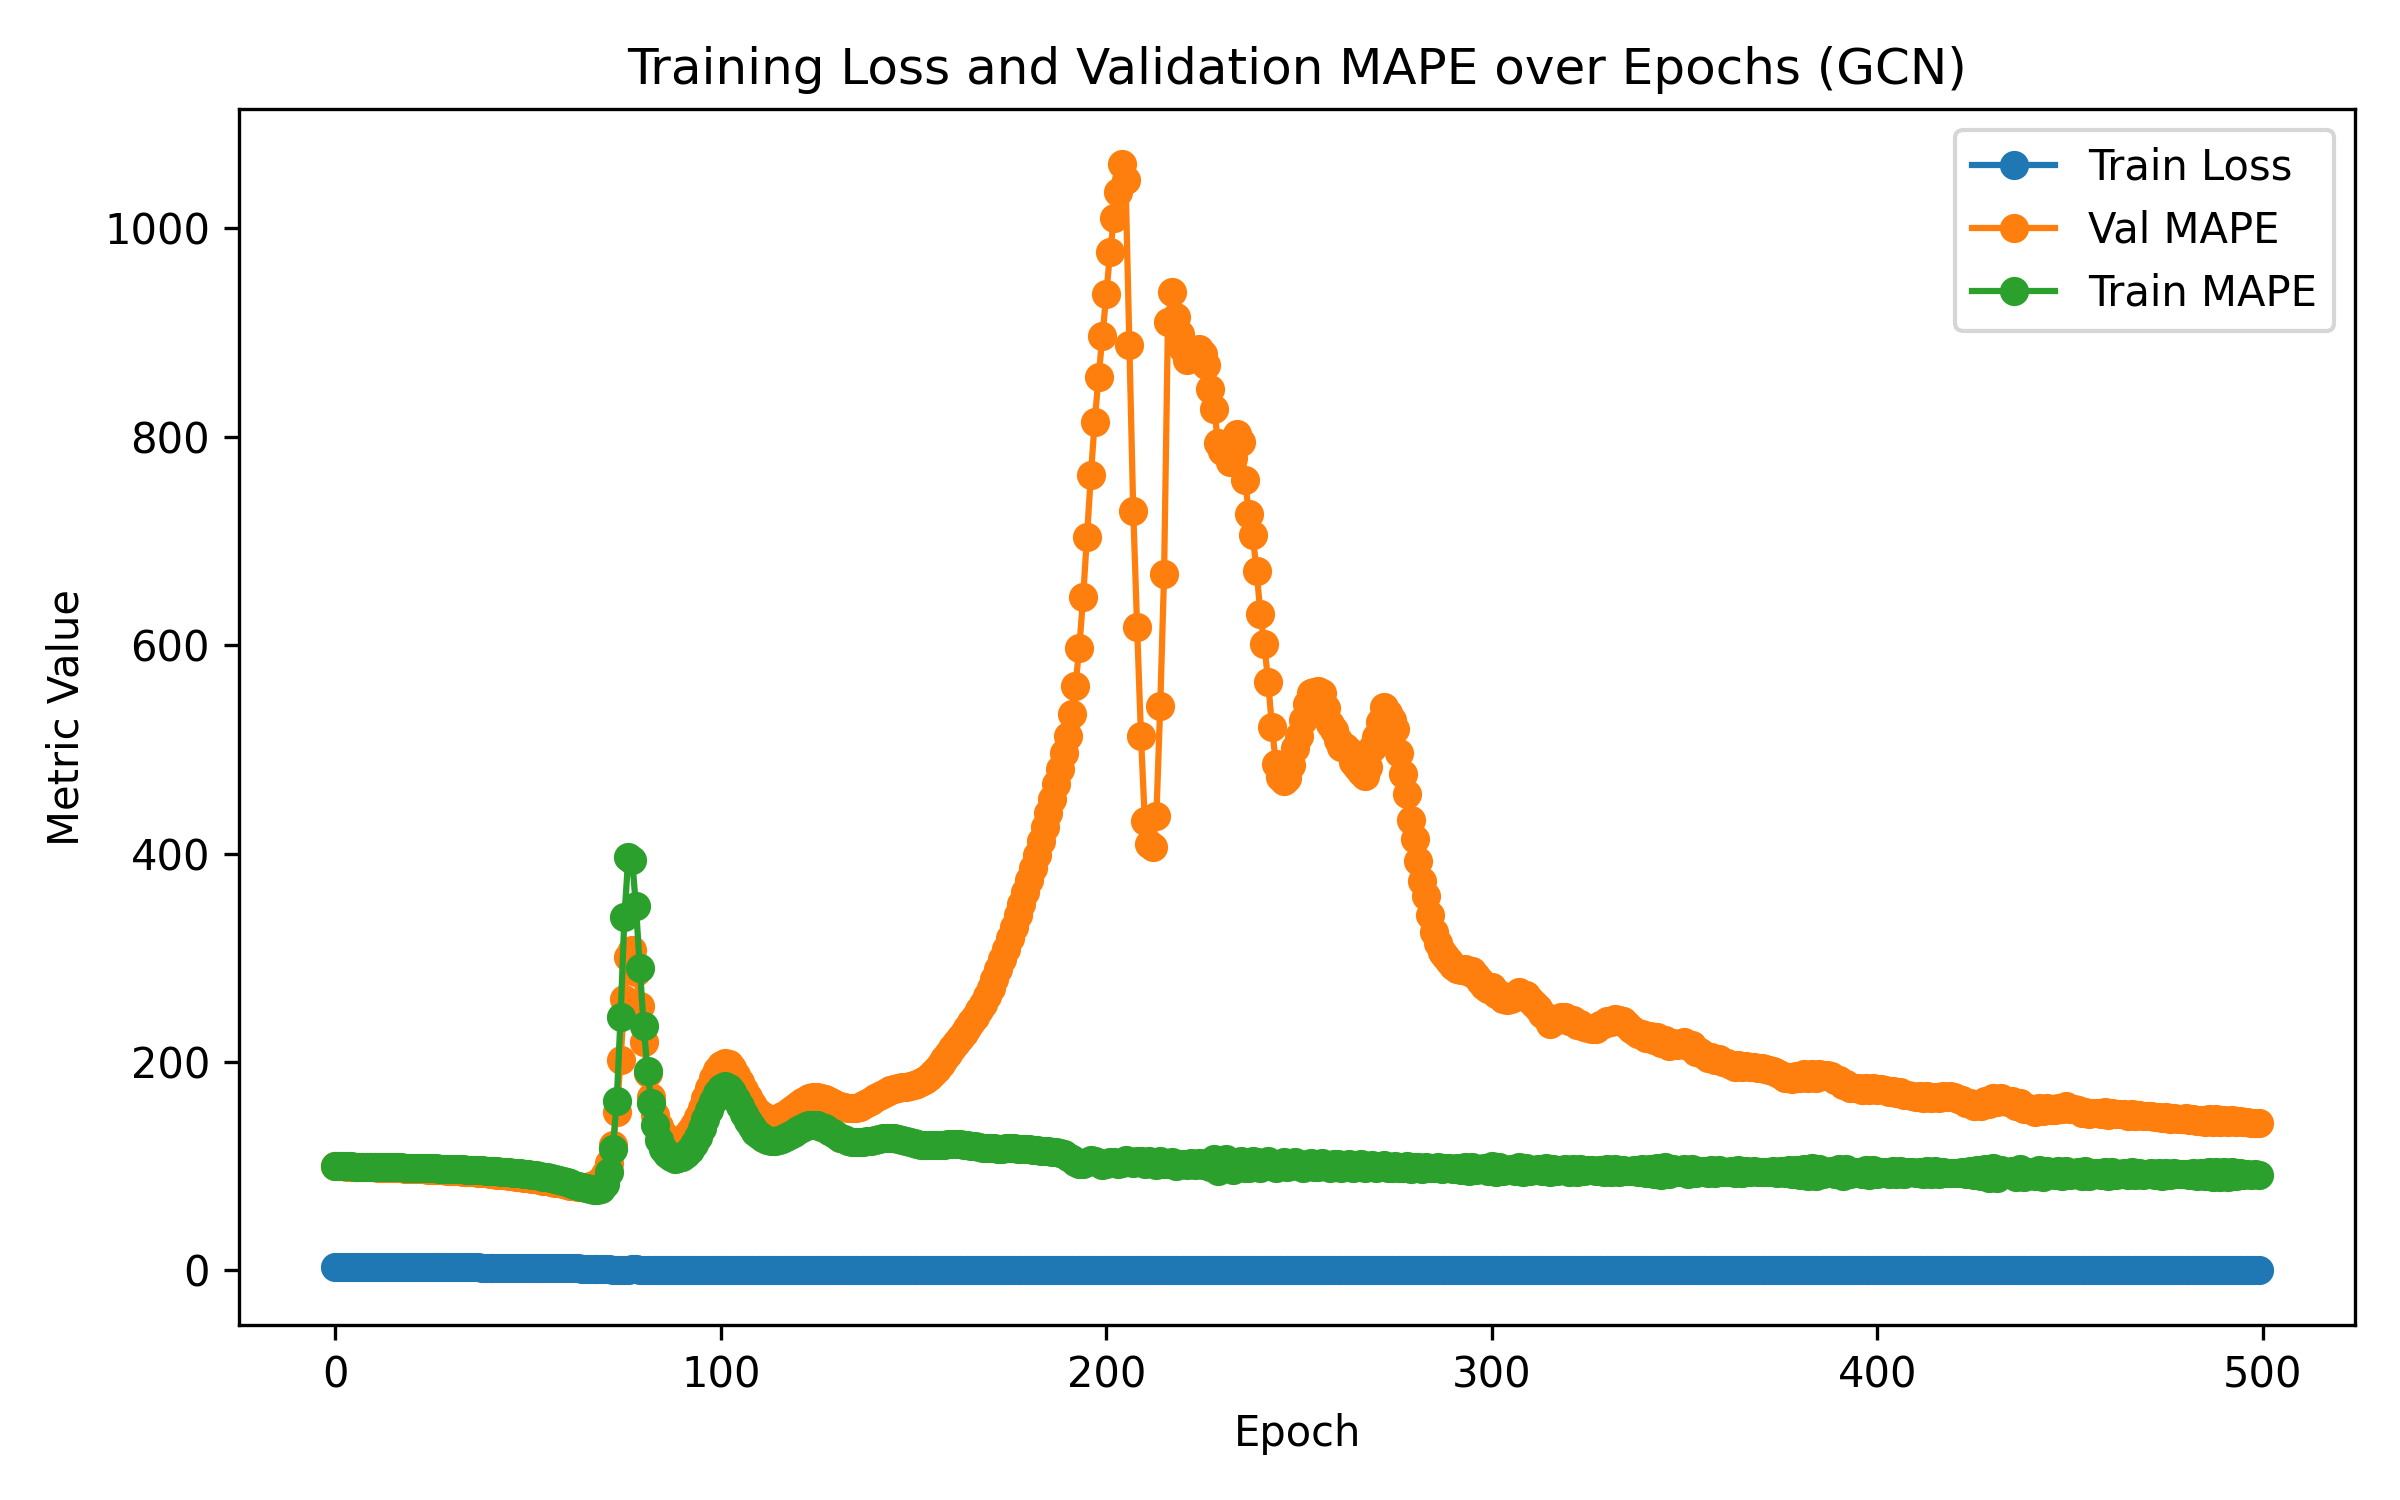
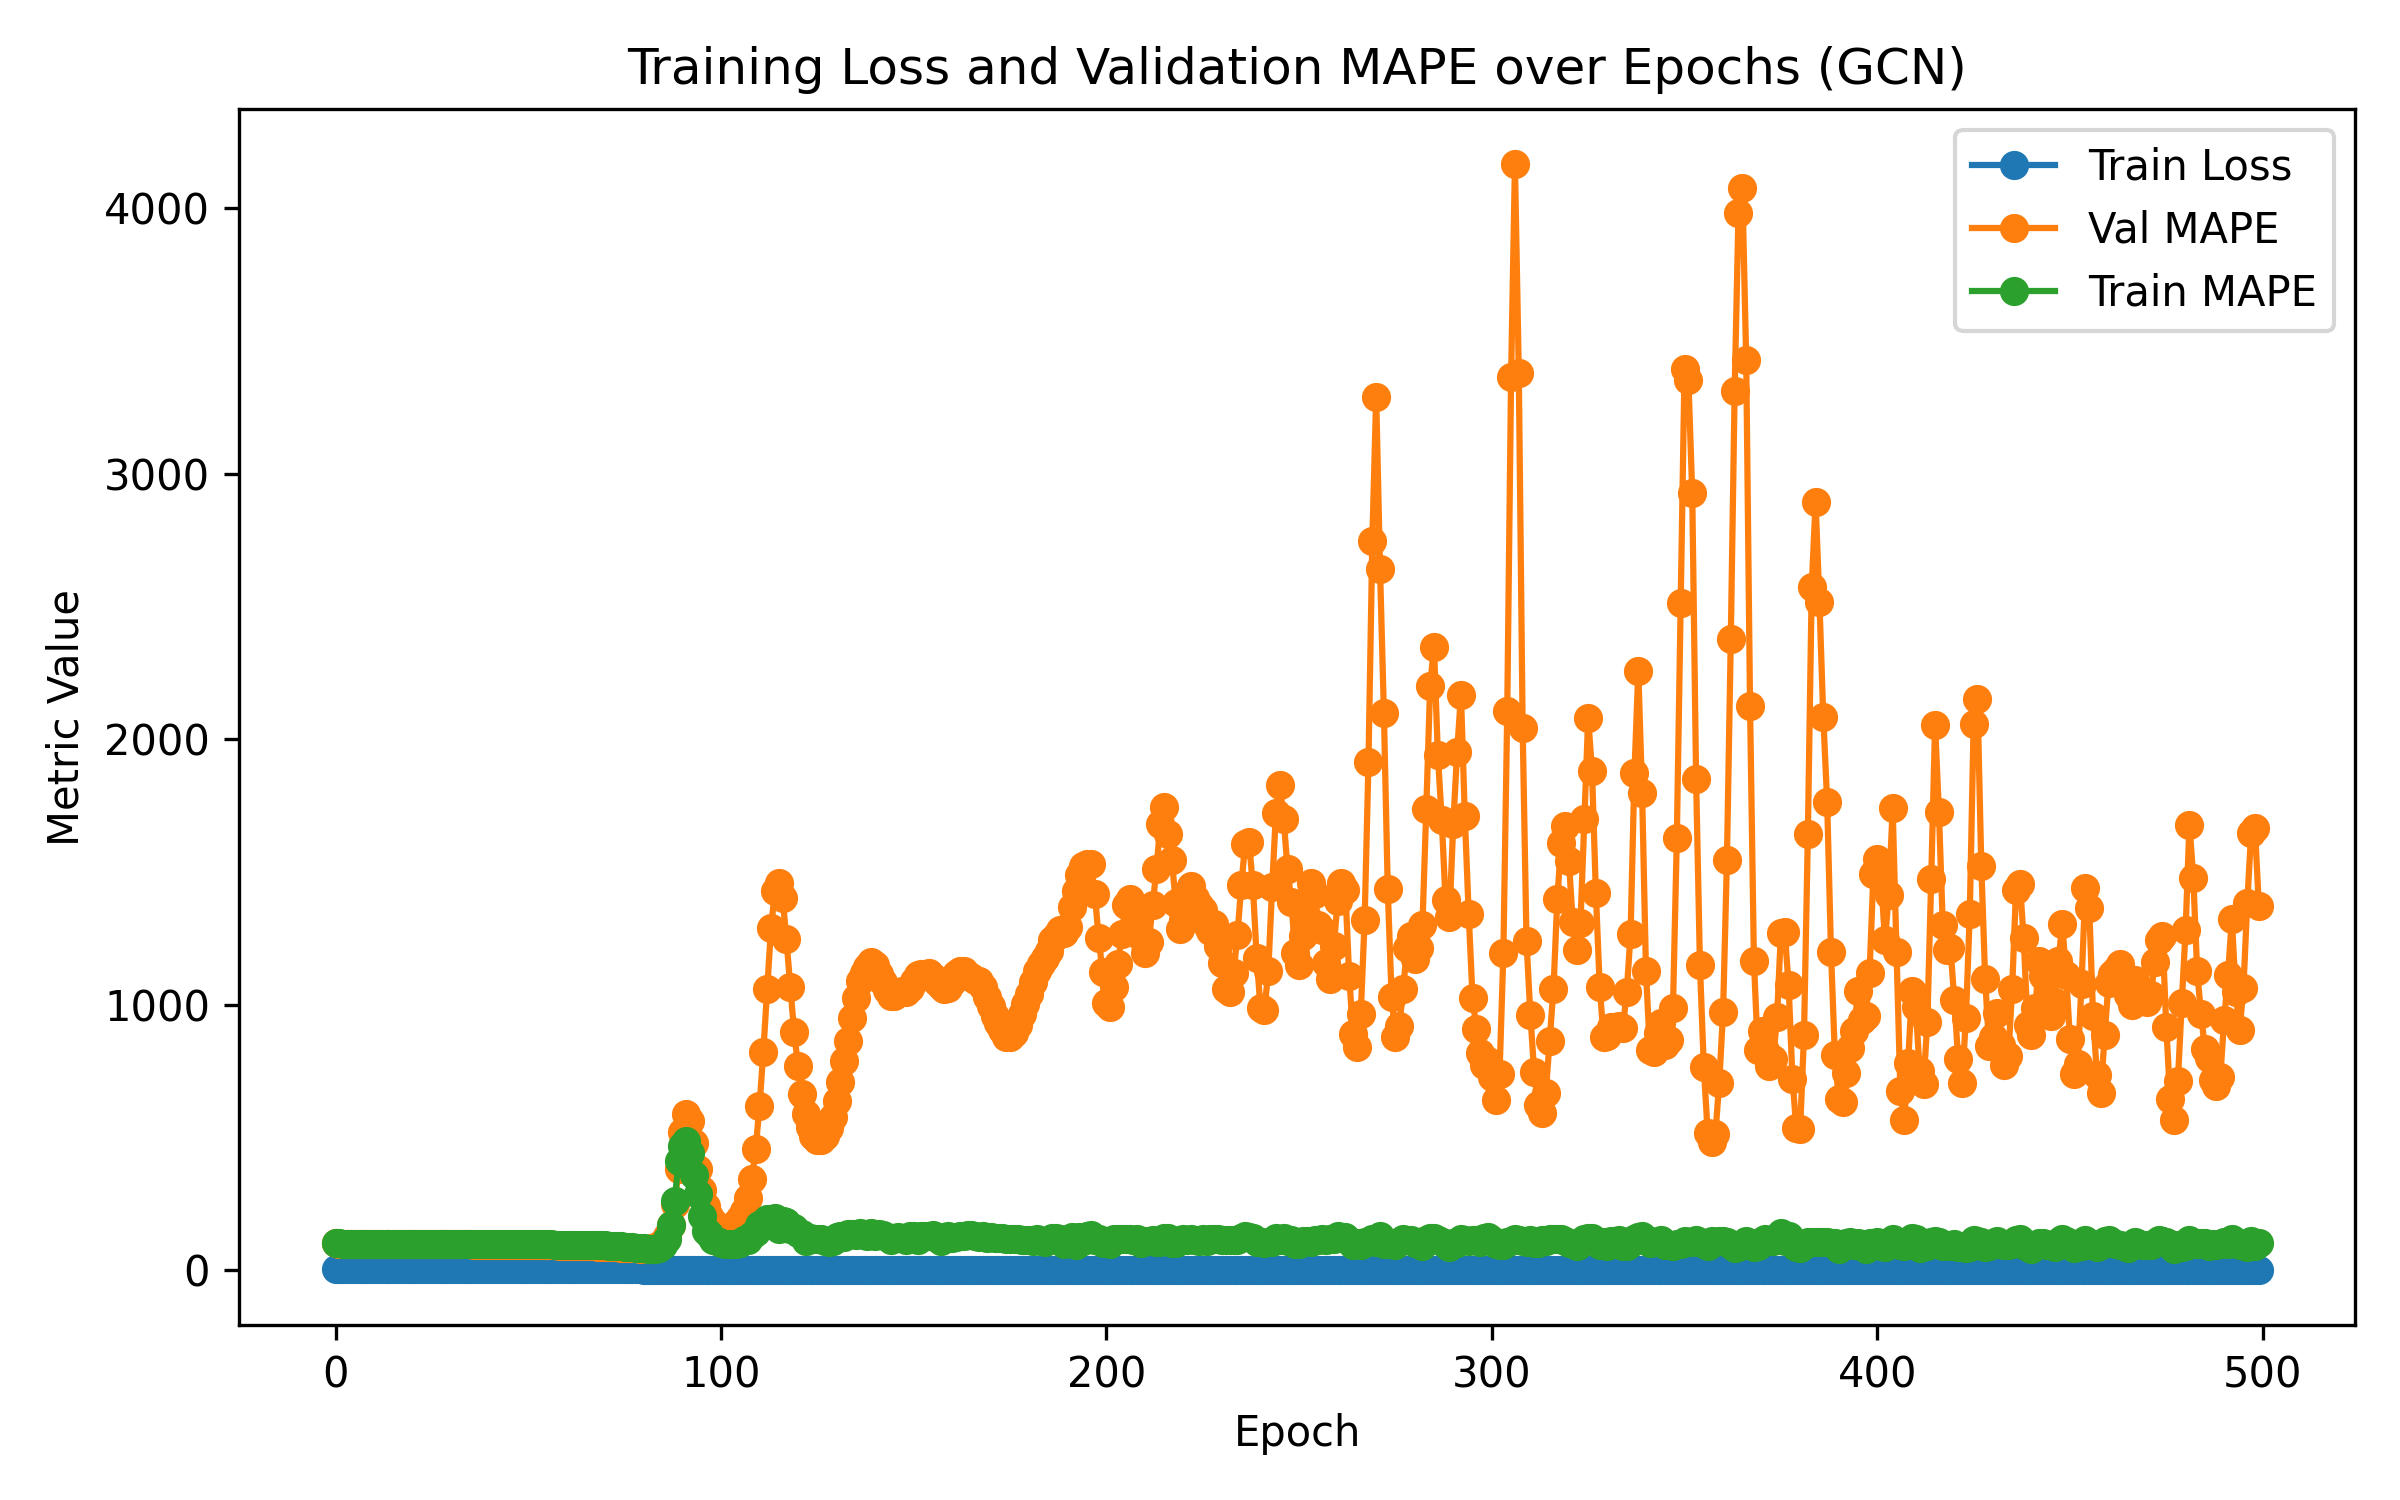
Fairly good results with graphSage

diff --git a/dissGNN/main.py b/dissGNN/main.py
@@ -6,8 +6,23 @@ from data_processing import load_data
 import itertools
 import visualisations
 import pandas as pd
+import numpy as np
+import random
+
+
+
+def set_seed(seed=42):
+    random.seed(seed)
+    np.random.seed(seed)
+    torch.manual_seed(seed)
+    torch.cuda.manual_seed(seed)
+    torch.cuda.manual_seed_all(seed)
+
+    torch.backends.cudnn.deterministic = True
+    torch.backends.cudnn.benchmark = False
 
 if __name__ == "__main__":
+    set_seed(3) # 3 isn't great, but best so far (At about 109 epochs)
     data = load_data("data/shapefiles/admin_2/moz_admbnda_adm2_ine_20190607.shp", "data/shapefiles/admin_3/moz_admbnda_adm3_ine_20190607.shp", "data/covariates/district/all_features_districts.csv", "data/covariates/postos/all_features_postos.csv", "data/mappings/mozam_admin_2_to_3_mappings.csv", 2, 3)
     num_features = data.x.shape[1]
     
